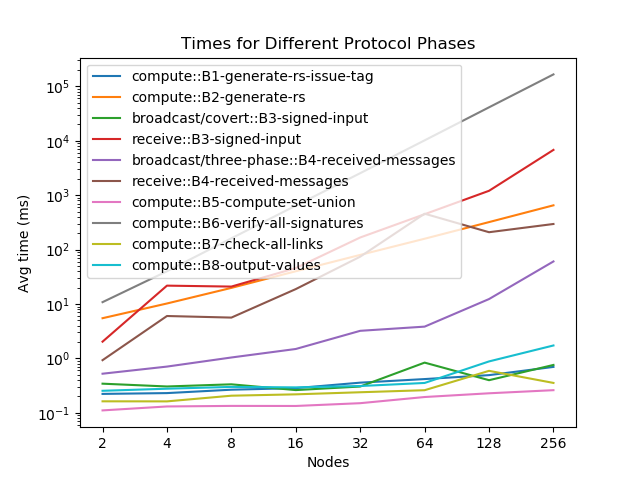
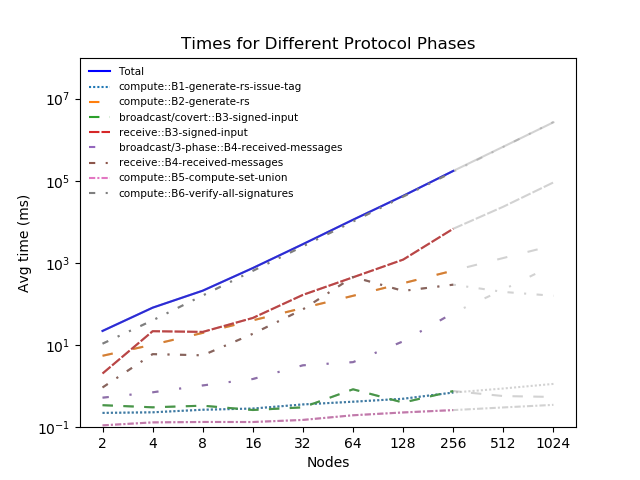
add new plots

diff --git a/results/analysis.py b/results/analysis.py
@@ -15,7 +15,6 @@ def get_data_from_directory(directory):
 all_node_counts = np.array([2**i for i in range(1, 13)])
 
 
-
 def trendline_plot(directory):
 
     data = get_data_from_directory(directory)
@@ -158,17 +157,32 @@ def generate_plot_by_subtask(directory):
 
         for size in sorted(data):
 
-            times = []
+            # times = []
 
-            for report in data[size]["reports"]:
+            # for report in data[size]["aggregates"]:
 
-                v = report["times"]["events"]
+            #     v = report["times"]["events"]
 
-                times.append(v[task]["end"]-v[task]["start"])
+            #     times.append(v[task]["end"]-v[task]["start"])
 
-            avg = sum(times)/len(times)
+            avg = data[size]["aggregates"]["times"]["events"][task]["mean"]
             values.append(avg)
         list_of_values1.append(values)
+
+    total_values = []
+
+    for size in sorted(data):
+
+        # times = []
+
+        # for report in data[size]["aggregates"]:
+
+        #     v = report["times"]["events"]
+
+        #     times.append(v[task]["end"]-v[task]["start"])
+
+        avg = data[size]["aggregates"]["times"]["total"]["mean"]
+        total_values.append(avg)
 
     # Plot
     print("Generating Plot")
@@ -188,11 +202,55 @@ def generate_plot_by_subtask(directory):
     # ax.bar(labels, [1 for l in labels], width, label="bar")
 
     # bottom = [0 for l in labels]
+    plt.plot(sorted(data), total_values, label="Total", color="blue")
 
-    for values1, task in zip(list_of_values1, task_names):
+    z = np.polyfit(np.log(sorted(data)[5:]), np.log(total_values[5:]), 1)
+
+    print(z)
+
+    p = np.poly1d(z)
+
+    # print(all_node_counts, np.exp(p(np.log(all_node_counts))))
+
+    # plt.plot(sorted(data) + [512, 1024], total_values + list(np.exp(p(np.log([512, 1024])))), alpha=0.35, color="grey")
+
+    linestyle_tuple = [
+        # ('loosely dotted',        (0, (1, 10))),
+        ('dotted',                (0, (1, 1))),
+        # ('densely dotted',        (0, (1, 1))),
+
+        ('loosely dashed',        (0, (5, 10))),
+        ('dashed',                (0, (5, 5))),
+        ('densely dashed',        (0, (5, 1))),
+
+        ('loosely dashdotted',    (0, (3, 10, 1, 10))),
+        ('dashdotted',            (0, (3, 5, 1, 5))),
+        ('densely dashdotted',    (0, (3, 1, 1, 1))),
+
+        ('dashdotdotted',         (0, (3, 5, 1, 5, 1, 5))),
+        ('loosely dashdotdotted', (0, (3, 10, 1, 10, 1, 10))),
+        ('densely dashdotdotted', (0, (3, 1, 1, 1, 1, 1)))]
+
+    colors = ["green", "purple", "blue", "red", "green", "purple", "blue", "red"]
+
+    for values1, task, (name, linestyle), color in zip(list_of_values1, task_names, linestyle_tuple, colors):
         print(task, values1, "\n")
 
-        plt.plot(sorted(data), values1, label=task)
+        task = task.replace("three", "3")
+
+        plt.plot(sorted(data), values1, label=task, linestyle=linestyle)
+
+        print("fitting")
+
+        z = np.polyfit(np.log(sorted(data)[5:]), np.log(values1[5:]), 1)
+
+        print(z)
+
+        p = np.poly1d(z)
+
+        # print(all_node_counts, np.exp(p(np.log(all_node_counts))))
+
+        # plt.plot(sorted(data) + [512, 1024], values1 + list(np.exp(p(np.log([512, 1024])))), linestyle=linestyle, alpha=0.35, color="grey")
 
         # for l in range(len(labels)):
         #     bottom[l] += values1[l]
@@ -201,16 +259,19 @@ def generate_plot_by_subtask(directory):
     plt.xlabel('Nodes')
     plt.xscale("log")
     plt.yscale("log")
+    # plt.xlim((2, 1024))
+    plt.ylim((1e-1, 1e8))
     plt.tick_params(
         axis='x',          # changes apply to the x-axis
         which='minor',      # both major and minor ticks are affected
         bottom=False,      # ticks along the bottom edge are off
         top=False,         # ticks along the top edge are off
-        labelbottom=False) # labels along the bottom edge are off
-    plt.xticks(ticks=sorted(data), labels=[str(d) for d in sorted(data)])
+        labelbottom=False)  # labels along the bottom edge are off
+    ticks = [2, 4, 8, 16, 32, 64, 128, 256, 512, 1024]
+    plt.xticks(ticks=ticks, labels=[str(d) for d in ticks])
 
     plt.title('Times for Different Protocol Phases')
-    plt.legend()
+    plt.legend(prop={'size': 7.5}, frameon=False)
     # plt.setp(ax.get_xticklabels(), rotation=30, horizontalalignment='right')
 
     print("saving")
@@ -220,7 +281,8 @@ def generate_plot_by_subtask(directory):
     plt.savefig(f"img/{directory}/plotbysubtask.png")
 
 
-generate_plot_by_subtask("final/single-value-consensus")
+generate_plot_by_subtask("final/reconstitution")
+
 
 def generate_grouped_svc_1_vs_3_plot():
 
